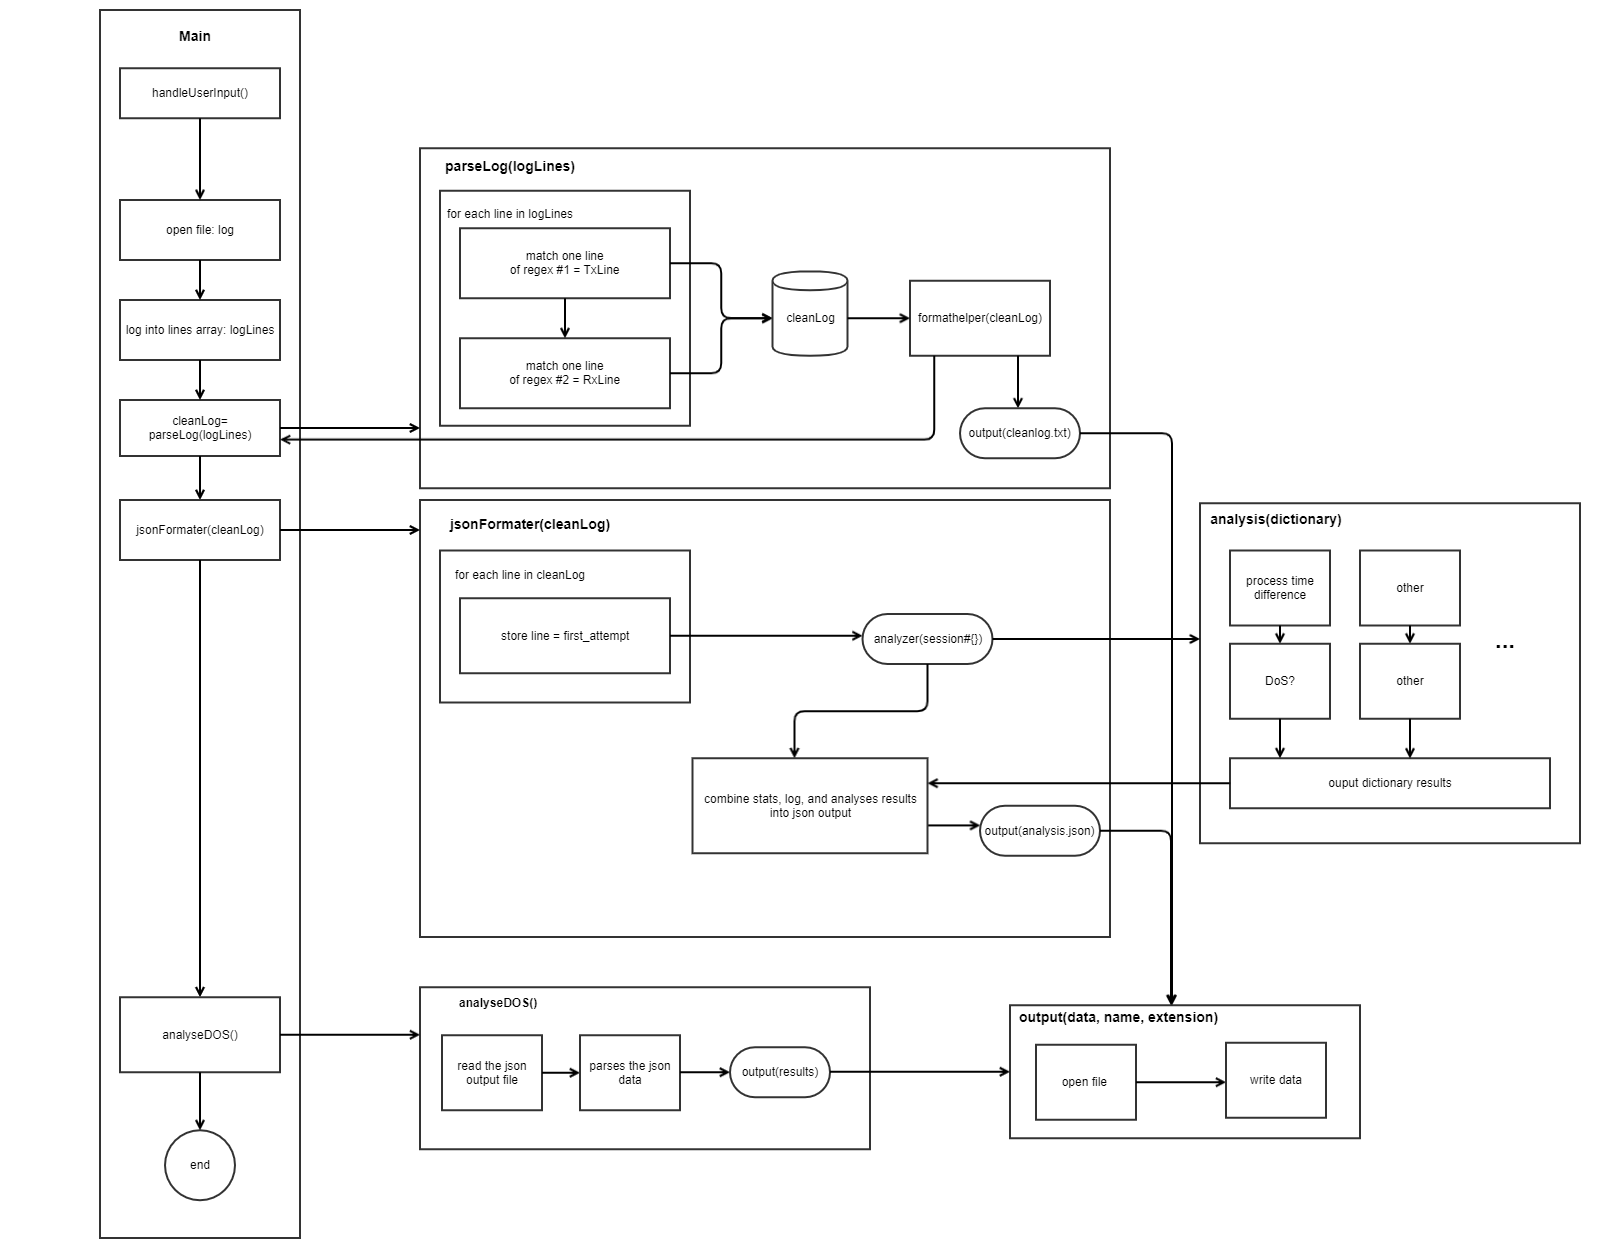
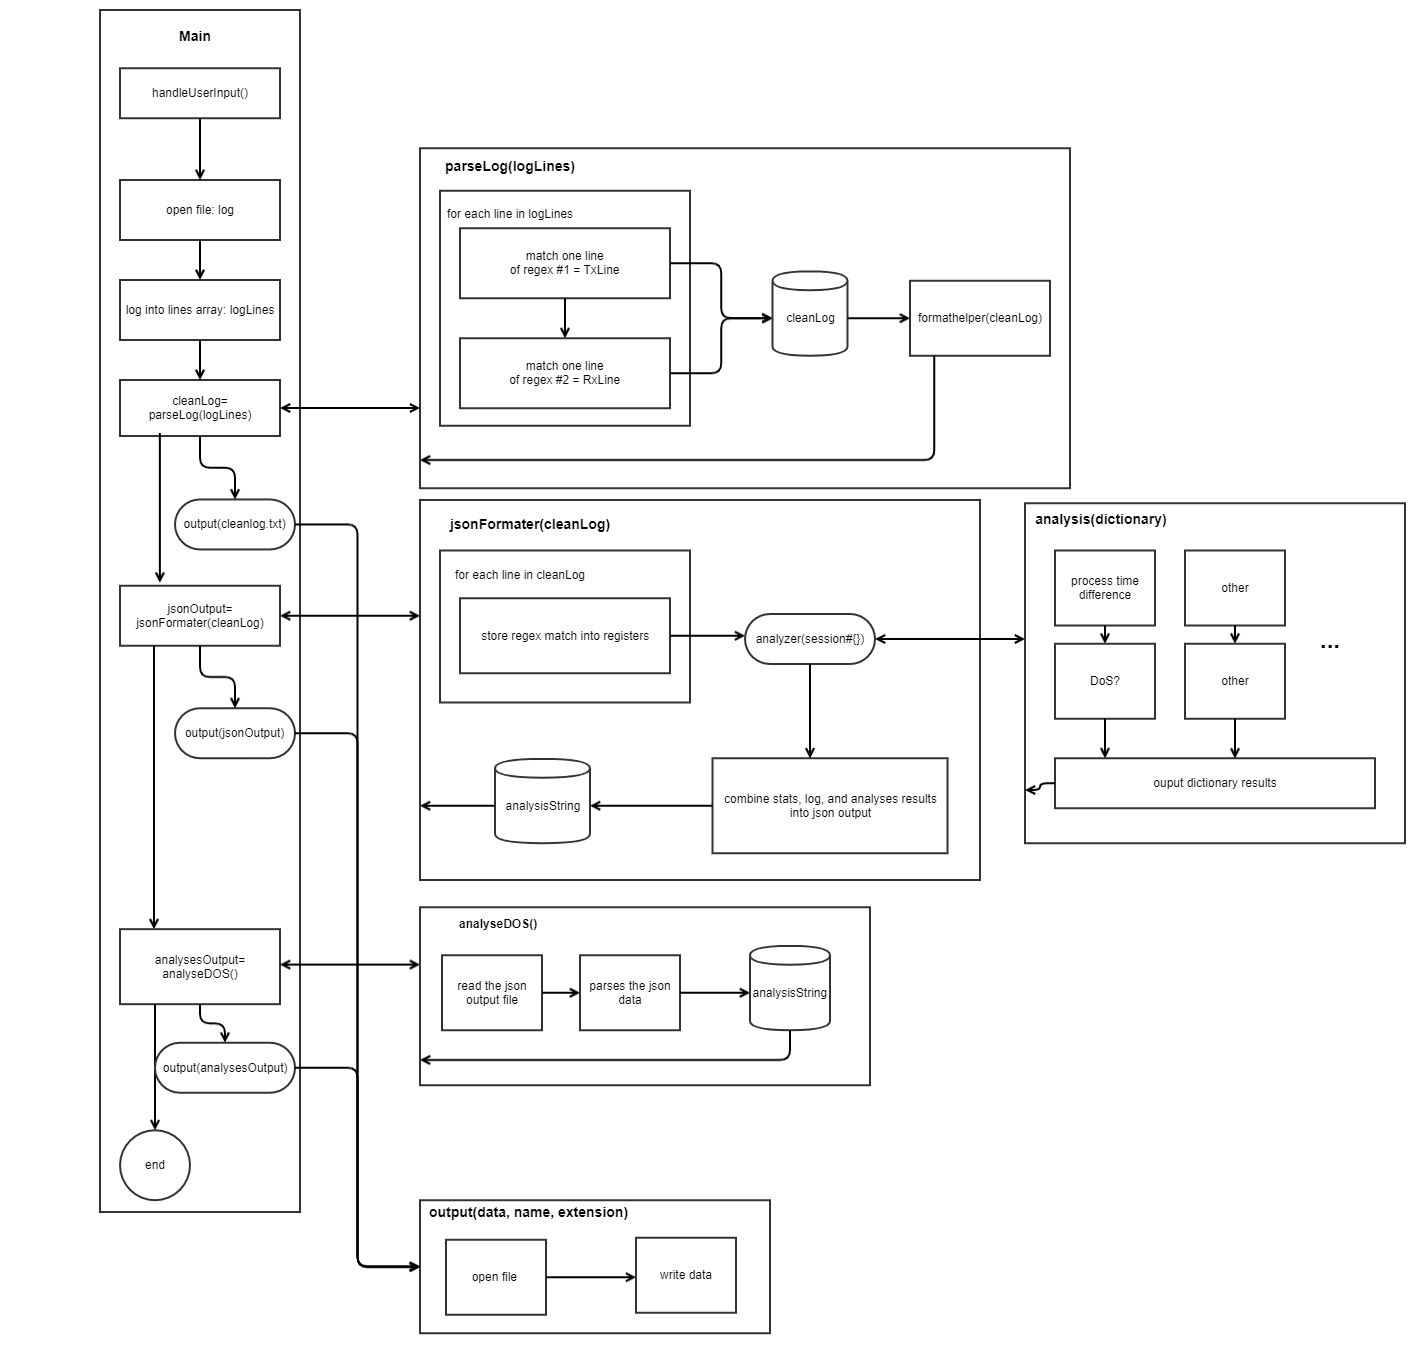
Documentation

diff --git a/ScriptRoom/logParser.py b/ScriptRoom/logParser.py
@@ -75,16 +75,17 @@ def jsonFormater(input):
     regexMatch = r'(\d+-\d+-\d+ \d+:\d+:\d+\.\d+).+ ([0-9]+).+Tx.+1{6} (\d+-\d+-\d+ \d+:\d+:\d+\.\d+).+ ([0-9]+).+Rx.+9{6}'
     
     ## This section does json formatting as well as injecting all data analyzed by dataAnalysis()
-    analysisDictionary = """{"DOS_THRESHOLD" : %s, "logs":[""" % (DOS_THRESHOLD)
+    analysisString = """{"DOS_THRESHOLD" : %s, "logs":[""" % (DOS_THRESHOLD)
 
     for tupleLine in re.findall(regexMatch, input):
         data = dataAnalysis(tupleLine[0], tupleLine[2]) # send data to be analyzed (more data can be sent as needed)
-        analysisDictionary +="""{"stream": "%s", "details":[{"start time": "%s" ,"end time" : "%s" ,"dos time" : "%ss", "dos attack" : "%s"}]},""" % (tupleLine[1], tupleLine[0], tupleLine[2], f"{data[0]:.2f}", data[1])
+        analysisString +="""{"stream": "%s", "details":[{"start time": "%s" ,"end time" : "%s" ,"dos time" : "%ss", "dos attack" : "%s"}]},""" % (tupleLine[1], tupleLine[0], tupleLine[2], f"{data[0]:.2f}", data[1])
     
-    analysisDictionary += "]}"
-    analysisDictionary = ''.join(analysisDictionary.rsplit(",",1)) # removes the last comma, porbs a better way.
+    analysisString += "]}"
+    analysisString = ''.join(analysisString.rsplit(",",1)) # removes the last comma, porbs a better way.
     
-    return analysisDictionary
+    return analysisString
+
 
 ## This function handles all data gathering/analysis, if any optimization is required its here ;)
 def dataAnalysis(*arguments):
